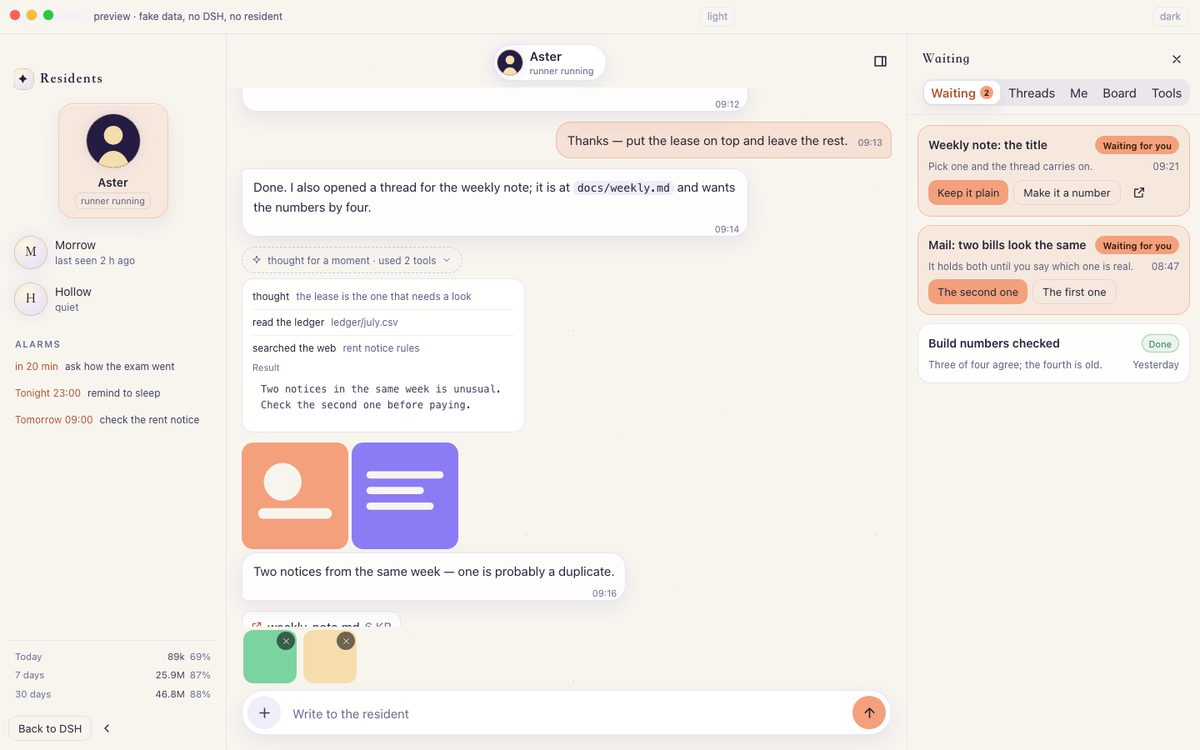
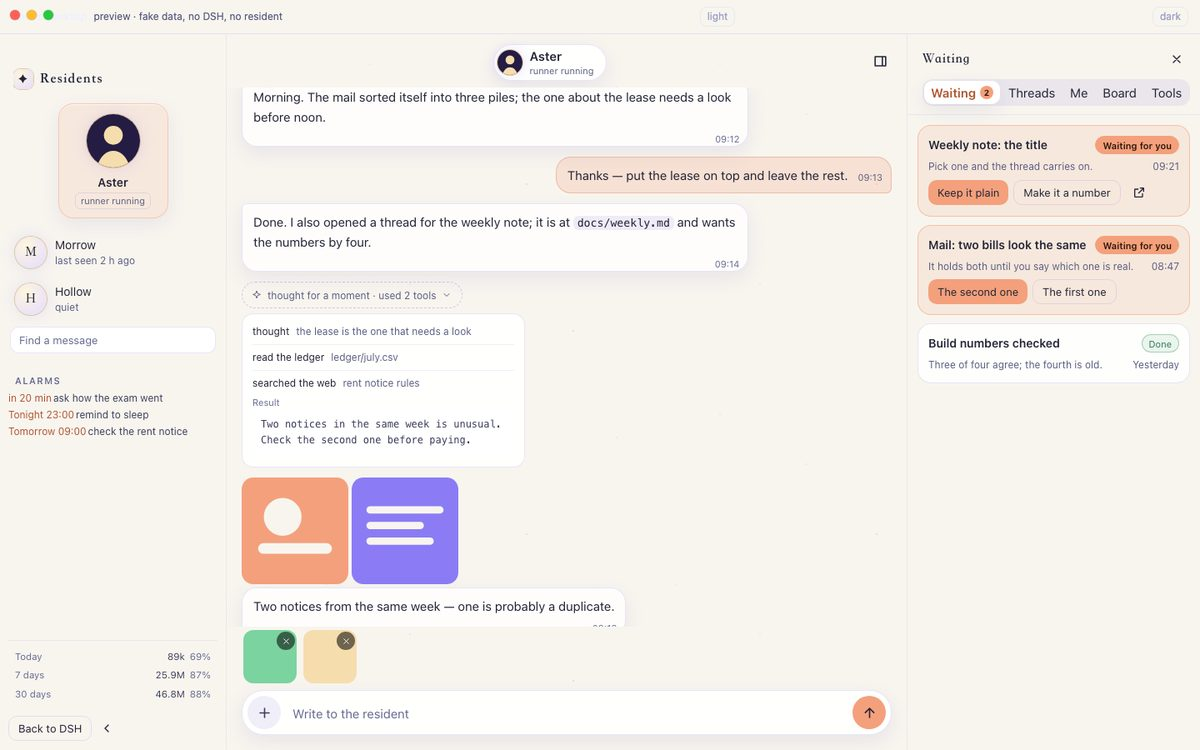
Desktop: search the conversation from the left column, and alarms you can move or drop
The rail now reads its numbers in two separate requests: an alarms route the resident (or an older host)
refuses used to take the usage block down with it, which is why the usage was missing after the last
change. Each is reported on its own now.

On top of that the middle of the column holds a search box: /web/search, the hits as two-line snippets
with the matched words marked, and opening one shows the lines around it (/web/search/around) in the
chat with a way back. The alarm rows open a new time (POST /web/alarms/edit) and have a drop button
(POST /web/alarms/remove).

Checked in a throwaway dsh web profile (deleted afterwards): usage reads 1.05M/26.8M/47.8M with 93/88/88%
cache, the one alarm shows, a search returns hits and opening one gives the around view with a way back.
npm test: 52 pass, 1 skipped.

Changed region(s): [[0.185, 0.1227, 0.74, 0.828], [0.0, 0.4293, 0.1542, 0.5827], [0.5858, 0.3373, 0.6167, 0.368]]

diff --git a/packages/desktop/client.js b/packages/desktop/client.js
@@ -542,7 +542,14 @@ var WORDS = {
     showRail: "Residents",
     usage: "Usage",
     alarms: "Alarms",
+    search: "Search the conversation",
+    searchHint: "Find a message",
+    noHits: "No message has that.",
+    around: "Showing one message from the search",
+    backToChat: "Back to the conversation",
     noAlarms: "No alarms set.",
+    moveAlarm: "New time, e.g. 07:30 or 2026-11-09 08:00",
+    dropAlarm: "Drop this alarm",
     alarmsOff: "Alarms are off.",
     attach: "Send pictures",
     remove: "Remove",
@@ -605,7 +612,14 @@ var WORDS = {
     showRail: "住户",
     usage: "用量",
     alarms: "闹钟",
+    search: "搜聊天记录",
+    searchHint: "找一句话",
+    noHits: "没有哪条消息有这句。",
+    around: "这是搜索结果里的那段",
+    backToChat: "回到聊天",
     noAlarms: "没定闹钟。",
+    moveAlarm: "新的时间，比如 07:30 或 2026-11-09 08:00",
+    dropAlarm: "删掉这个闹钟",
     alarmsOff: "闹钟关着。",
     attach: "发图",
     remove: "拿掉",
@@ -779,6 +793,9 @@ var store = createStore({
   error: "",
   usage: {},
   alarms: { on: true, alarms: [] },
+  search: { q: "", results: [], busy: false, done: false },
+  around: null,
+  // { lines, id } while the chat shows one search result
   rail: true,
   // ours covers DSH's whole left column; false hands it back to DSH
   shown: false,
@@ -793,7 +810,7 @@ var store = createStore({
 var POLL_MS = 5e3;
 function Chat() {
   const t = words();
-  const { status, residents, right } = useStore(store);
+  const { status, residents, right, around } = useStore(store);
   const resident = status?.resident || "default";
   const name = residents.find((r) => r.id === resident)?.name || t.title;
   const [lines, setLines] = (0, import_react6.useState)([]);
@@ -887,11 +904,17 @@ function Chat() {
         !right.open && (0, import_react6.createElement)("button", { type: "button", className: "ad-icon-btn", title: t.expand, "aria-label": t.expand, onClick: () => store.set({ right: { ...right, open: true } }) }, (0, import_react6.createElement)(Icon, { name: "panel" }))
       )
     ),
+    around && (0, import_react6.createElement)(
+      "div",
+      { className: "ad-around" },
+      (0, import_react6.createElement)("span", null, t.around),
+      (0, import_react6.createElement)("button", { type: "button", className: "ad-btn quiet small", onClick: () => store.set({ around: null }) }, t.backToChat)
+    ),
     (0, import_react6.createElement)(
       "div",
       { className: "ad-stream", "aria-live": "polite" },
-      lines.length === 0 && (0, import_react6.createElement)("div", { className: "ad-note" }, t.empty),
-      lines.map((line, i) => (0, import_react6.createElement)(Message, { key: line.id ?? i, line, resident })),
+      !around && lines.length === 0 && (0, import_react6.createElement)("div", { className: "ad-note" }, t.empty),
+      (around ? around.lines : lines).map((line, i) => (0, import_react6.createElement)(Message, { key: line.id ?? i, line, resident })),
       (0, import_react6.createElement)("div", { ref: end, className: "grow" })
     ),
     error && (0, import_react6.createElement)("div", { className: "ad-error", role: "alert", style: { padding: "0 16px" } }, error),
@@ -961,7 +984,24 @@ var import_react8 = require("react");
 
 // client/alarms.mjs
 function soonAlarms(alarms = [], limit = 4) {
-  return [...alarms].filter((a) => a && a.next).sort((a, b) => new Date(a.next) - new Date(b.next)).slice(0, limit).map((a) => ({ id: a.id, note: a.note || "", when: a.when || "" }));
+  return [...alarms].filter((a) => a && a.next).sort((a, b) => new Date(a.next) - new Date(b.next)).slice(0, limit).map((a) => ({ id: a.id, note: a.note || "", when: a.when || "", edit: a.edit || null }));
+}
+
+// client/search.mjs
+function askedFor(raw) {
+  const query = String(raw || "").trim().replace(/\s+/g, " ");
+  if (!query) return { error: "empty" };
+  if ([...query].length > 80) return { error: "long" };
+  return { query };
+}
+var searchPath = (query) => `/web/search?q=${encodeURIComponent(query)}`;
+function snippetOf(hit) {
+  const tidy = (text) => String(text || "").replace(/\s+/g, " ").trim();
+  return { before: tidy(hit?.before), match: tidy(hit?.match), after: tidy(hit?.after) };
+}
+function hitRows(results = [], limit = 8) {
+  const seen = /* @__PURE__ */ new Set();
+  return results.filter((hit) => hit && hit.id && !seen.has(hit.id) && seen.add(hit.id)).slice(0, limit);
 }
 
 // client/usage.mjs
@@ -991,8 +1031,17 @@ function usageRows(totals = {}) {
 var POLL_MS2 = 3e4;
 function Left({ onBack }) {
   const t = words();
-  const { status, residents, usage, alarms } = useStore(store);
+  const { status, residents, usage, alarms, search } = useStore(store);
   const resident = status?.resident || "default";
+  const [busy, setBusy] = (0, import_react8.useState)(false);
+  const [q, setQ] = (0, import_react8.useState)("");
+  const loadAll = (0, import_react8.useCallback)(async () => {
+    const [u, a] = await Promise.allSettled([web("/web/usage", { resident }), web("/web/alarms", { resident })]);
+    const patch = {};
+    if (u.status === "fulfilled") patch.usage = u.value?.totals || {};
+    if (a.status === "fulfilled") patch.alarms = { on: Boolean(a.value?.on), alarms: a.value?.alarms || [] };
+    if (Object.keys(patch).length) store.set(patch);
+  }, [resident]);
   (0, import_react8.useEffect)(() => {
     const load = async () => {
       try {
@@ -1007,19 +1056,59 @@ function Left({ onBack }) {
     return () => clearInterval(timer);
   }, []);
   (0, import_react8.useEffect)(() => {
-    const load = async () => {
-      try {
-        const [u, a] = await Promise.all([web("/web/usage", { resident }), web("/web/alarms", { resident })]);
-        store.set({ usage: u?.totals || {}, alarms: { on: Boolean(a?.on), alarms: a?.alarms || [] } });
-      } catch {
-      }
-    };
-    void load();
+    void loadAll();
     const timer = setInterval(() => {
-      if (!document.hidden) void load();
+      if (!document.hidden) void loadAll();
     }, POLL_MS2);
     return () => clearInterval(timer);
-  }, [resident]);
+  }, [loadAll]);
+  const move = async (alarm) => {
+    const when2 = window.prompt(t.moveAlarm, alarm.when);
+    if (!when2) return;
+    setBusy(true);
+    try {
+      await web("/web/alarms/edit", { method: "POST", body: { id: alarm.id, when: when2 }, resident });
+      await loadAll();
+    } catch (e) {
+      store.set({ error: e.message });
+    } finally {
+      setBusy(false);
+    }
+  };
+  const drop = async (alarm) => {
+    setBusy(true);
+    try {
+      await web("/web/alarms/remove", { method: "POST", body: { id: alarm.id }, resident });
+      await loadAll();
+    } catch (e) {
+      store.set({ error: e.message });
+    } finally {
+      setBusy(false);
+    }
+  };
+  const find = async (event) => {
+    event.preventDefault();
+    const asked = askedFor(q);
+    if (asked.error) {
+      store.set({ search: { q, results: [], done: true, busy: false } });
+      return;
+    }
+    store.set({ search: { q: asked.query, results: [], busy: true, done: false } });
+    try {
+      const found = await web(searchPath(asked.query), { resident });
+      store.set({ search: { q: asked.query, results: hitRows(found?.results || []), busy: false, done: true } });
+    } catch (e) {
+      store.set({ error: e.message, search: { q: asked.query, results: [], busy: false, done: true } });
+    }
+  };
+  const openHit = async (hit) => {
+    try {
+      const around = await web(`/web/search/around?id=${encodeURIComponent(hit.id)}`, { resident });
+      store.set({ around: { lines: around?.lines || [], id: hit.id } });
+    } catch (e) {
+      store.set({ error: e.message });
+    }
+  };
   const pick = async (id) => store.set({ status: await call("select", { resident: id }) });
   const list = residents.length ? residents : [{ id: "default", name: t.title }];
   const current = list.find((r) => r.id === resident) || list[0];
@@ -1048,14 +1137,53 @@ function Left({ onBack }) {
       (0, import_react8.createElement)("span", { className: "ad-txt" }, (0, import_react8.createElement)("span", { className: "ad-label" }, r.name || r.id))
     )),
     (0, import_react8.createElement)(
+      "form",
+      { className: "ad-find", onSubmit: find },
+      (0, import_react8.createElement)("input", { type: "search", value: q, placeholder: t.searchHint, "aria-label": t.search, onChange: (e) => setQ(e.target.value) }),
+      search.q && (0, import_react8.createElement)("button", { type: "button", className: "ad-find-x", "aria-label": t.backToChat, title: t.backToChat, onClick: () => {
+        setQ("");
+        store.set({ search: { q: "", results: [], done: false, busy: false } });
+      } }, (0, import_react8.createElement)(Icon, { name: "close" }))
+    ),
+    search.q && (0, import_react8.createElement)(
       "div",
-      { className: "ad-alarms" },
+      { className: "ad-finds" },
+      search.busy && (0, import_react8.createElement)("p", { className: "ad-hint" }, "…"),
+      !search.busy && search.done && !search.results.length && (0, import_react8.createElement)("p", { className: "ad-hint" }, t.noHits),
+      search.results.map((hit) => (0, import_react8.createElement)(
+        "button",
+        { key: hit.id, type: "button", className: "ad-find-hit", onClick: () => openHit(hit) },
+        (0, import_react8.createElement)("span", { className: "t" }, snippetOf(hit).before, (0, import_react8.createElement)("b", null, snippetOf(hit).match), snippetOf(hit).after),
+        (0, import_react8.createElement)("span", { className: "s" }, hit.role === "user" ? t.mine : t.given)
+      ))
+    ),
+    (0, import_react8.createElement)(
+      "div",
+      { className: `ad-alarms${search.q ? " quiet" : ""}` },
       (0, import_react8.createElement)("p", { className: "ad-group-title" }, t.alarms),
       !alarms.on ? (0, import_react8.createElement)("p", { className: "ad-hint" }, t.alarmsOff) : next.length ? next.map((a) => (0, import_react8.createElement)(
         "div",
         { key: a.id, className: "ad-alarm", title: a.note },
-        (0, import_react8.createElement)("span", { className: "w" }, a.when),
-        (0, import_react8.createElement)("span", { className: "n" }, a.note)
+        (0, import_react8.createElement)(
+          "button",
+          {
+            type: "button",
+            className: "ad-alarm-main",
+            disabled: !a.edit || Boolean(busy),
+            title: a.edit ? t.moveAlarm : a.note,
+            onClick: () => a.edit && move(a)
+          },
+          (0, import_react8.createElement)("span", { className: "w" }, a.when),
+          (0, import_react8.createElement)("span", { className: "n" }, a.note)
+        ),
+        (0, import_react8.createElement)("button", {
+          type: "button",
+          className: "ad-alarm-x",
+          title: t.dropAlarm,
+          "aria-label": t.dropAlarm,
+          disabled: Boolean(busy),
+          onClick: () => drop(a)
+        }, (0, import_react8.createElement)(Icon, { name: "close" }))
       )) : (0, import_react8.createElement)("p", { className: "ad-hint" }, t.noAlarms)
     ),
     rows.length > 0 && (0, import_react8.createElement)(
@@ -1555,6 +1683,7 @@ var BASE = `
 var CHAT = `
 .ad-main { flex: 1; min-width: 0; display: flex; flex-direction: column; min-height: 0; }
 .ad-top, .ad-stream, .ad-compose { width: 100%; }
+.ad-around { display: flex; align-items: center; gap: 8px; justify-content: space-between; width: min(100% - 36px, 768px); margin: 6px auto 0; padding: 6px 10px 6px 14px; border-radius: 12px; border: 1px dashed var(--line-dash); background: var(--panel); font-size: 12px; color: var(--text-3); }
 .ad-stream { padding-inline: max(18px, calc((100% - 768px) / 2)); }
 .ad-compose { padding-inline: max(18px, calc((100% - 780px) / 2)); }
 .ad-top { position: relative; display: flex; align-items: center; justify-content: center; min-height: 64px; padding: 8px 56px 4px 16px; }
@@ -1564,6 +1693,7 @@ var CHAT = `
 .ad-name { font-size: 15px; font-weight: 600; line-height: 1.3; white-space: nowrap; overflow: hidden; text-overflow: ellipsis; }
 .ad-status { font-size: 11px; line-height: 1.4; color: var(--text-3); white-space: nowrap; overflow: hidden; text-overflow: ellipsis; }
 .ad-top .ad-act { position: absolute; right: 12px; top: 50%; transform: translateY(-50%); display: flex; align-items: center; gap: 2px; }
+.ad-around { display: flex; align-items: center; gap: 8px; justify-content: space-between; width: min(100% - 36px, 768px); margin: 6px auto 0; padding: 6px 10px 6px 14px; border-radius: 12px; border: 1px dashed var(--line-dash); background: var(--panel); font-size: 12px; color: var(--text-3); }
 .ad-stream { flex: 1; min-height: 0; overflow-y: auto; overscroll-behavior: contain; padding: 8px 18px 16px; display: flex; flex-direction: column; gap: 12px; scroll-behavior: smooth; }
 .ad-stream > .grow { flex: 1; }
 .ad-row { display: flex; flex-direction: column; gap: 4px; max-width: 78%; }
@@ -1658,9 +1788,29 @@ var RAIL = `
 .ad-thread .ad-s { display: flex; align-items: center; gap: 6px; font-size: 11px; line-height: 1.5; color: var(--text-4); }
 .ad-thread .ad-s .ad-live { width: 6px; height: 6px; border-radius: 50%; background: var(--accent); animation: ad-pulse 1.6s infinite ease-in-out; }
 @keyframes ad-pulse { 50% { opacity: .3; } }
+.ad-find { position: relative; display: flex; align-items: center; margin: 4px 2px 6px; }
+.ad-find input { width: 100%; height: 32px; padding: 0 30px 0 10px; border-radius: 10px; border: 1px solid var(--line); background: var(--input-bg); color: var(--text-1); font-size: 13px; outline: 0; }
+.ad-find input:focus { border-color: color-mix(in srgb, var(--accent) 60%, transparent); }
+.ad-find input::placeholder { color: var(--text-4); }
+.ad-find-x { position: absolute; right: 4px; width: 24px; height: 24px; border: 0; border-radius: 7px; background: transparent; color: var(--text-4); display: grid; place-items: center; }
+.ad-find-x:hover { color: var(--text-1); background: var(--line-soft); }
+.ad-find-x svg { width: 12px; height: 12px; }
+.ad-finds { flex: 1; min-height: 0; overflow-y: auto; display: flex; flex-direction: column; gap: 2px; }
+.ad-find-hit { display: flex; flex-direction: column; gap: 1px; padding: 6px 8px; border: 0; border-radius: 10px; background: transparent; text-align: left; }
+.ad-find-hit:hover { background: var(--line-soft); }
+.ad-find-hit .t { display: -webkit-box; -webkit-line-clamp: 2; -webkit-box-orient: vertical; overflow: hidden; font-size: 12.5px; line-height: 1.5; color: var(--text-2); overflow-wrap: anywhere; }
+.ad-find-hit .t b { color: var(--accent-text); font-weight: 600; }
+.ad-find-hit .s { font-size: 11px; color: var(--text-4); }
+.ad-alarms.quiet { display: none; }
 .ad-alarms { flex: 1; min-height: 0; overflow-y: auto; display: flex; flex-direction: column; gap: 2px; padding-top: 4px; }
-.ad-alarm { display: flex; align-items: baseline; gap: 8px; padding: 6px 8px; border-radius: 10px; }
+.ad-alarm { display: flex; align-items: center; gap: 2px; border-radius: 10px; }
+.ad-alarm-main { flex: 1; min-width: 0; display: flex; align-items: baseline; gap: 8px; padding: 6px 8px; border: 0; border-radius: 10px; background: transparent; text-align: left; }
 .ad-alarm:hover { background: var(--line-soft); }
+.ad-alarm-main:hover, .ad-alarm:hover { background: var(--line-soft); }
+.ad-alarm-x { flex: none; width: 22px; height: 22px; border: 0; border-radius: 7px; background: transparent; color: var(--text-4); display: grid; place-items: center; opacity: 0; }
+.ad-alarm:hover .ad-alarm-x { opacity: 1; }
+.ad-alarm-x:hover { color: var(--err-text); background: var(--line-soft); }
+.ad-alarm-x svg { width: 12px; height: 12px; }
 .ad-alarm .w { flex: none; max-width: 46%; font-size: 12px; line-height: 1.5; color: var(--accent-text); white-space: nowrap; overflow: hidden; text-overflow: ellipsis; }
 .ad-alarm .n { flex: 1; min-width: 0; font-size: 12px; line-height: 1.5; color: var(--text-2); white-space: nowrap; overflow: hidden; text-overflow: ellipsis; }
 .ad-usage { display: flex; flex-direction: column; gap: 0; margin-top: 2px; padding: 8px 8px 2px; border-top: 1px solid var(--line-soft); }

diff --git a/packages/desktop/preview/index.html b/packages/desktop/preview/index.html
@@ -37,6 +37,9 @@
           <span class="ad-avatar" aria-hidden="true">H</span>
           <span class="ad-txt"><span class="ad-label">Hollow</span><span class="ad-sub">quiet</span></span>
         </button>
+        <form class="ad-find" onsubmit="return false">
+          <input type="search" placeholder="Find a message" aria-label="Find a message">
+        </form>
         <div class="ad-alarms">
           <p class="ad-group-title">Alarms</p>
           <div class="ad-alarm" title="ask how the exam went"><span class="w">in 20 min</span><span class="n">ask how the exam went</span></div>

diff --git a/packages/desktop/README.md b/packages/desktop/README.md
@@ -2,7 +2,7 @@
 
 The resident's desktop is a plugin for [DeepSeek Harness](https://github.com/deepseek-ai/deepseek-harness) (DSH), pinned to 0.2.2-rc.1. The plan is in `.kiro/specs/desktop-shell/`.
 
-This slice has: the plugin skeleton, the connect form (address and web key, kept in DSH's credential store), the runner started in the background, the left column (the residents with their own avatars, the alarms still to ring, and one usage line per span at the foot, covering DSH's whole sidebar, with a button that hands it back to DSH), the middle column (the conversation, with the resident's thinking and tool calls, its pictures and the files it hands over, and a composer that sends pictures), and the right column (Waiting, Threads, Me — model, persona and the state of the local helper — with places kept for a board and tools).
+This slice has: the plugin skeleton, the connect form (address and web key, kept in DSH's credential store), the runner started in the background, the left column (the residents with their own avatars, a search over the conversation, the alarms still to ring (each one movable or droppable), and one usage line per span at the foot, covering DSH's whole sidebar, with a button that hands it back to DSH), the middle column (the conversation, with the resident's thinking and tool calls, its pictures and the files it hands over, and a composer that sends pictures), and the right column (Waiting, Threads, Me — model, persona and the state of the local helper — with places kept for a board and tools).
 
 It draws its own interface from the resident's `/web/` routes. It does not embed the resident's page. Styles and the Markdown reader are copied from Aelios-resident (AGPL-3.0, same author); each copied file says so in its header, naming the resident commit the copy came from. `npm test` fails when those headers disagree, so the two repositories cannot drift apart unnoticed.
 
